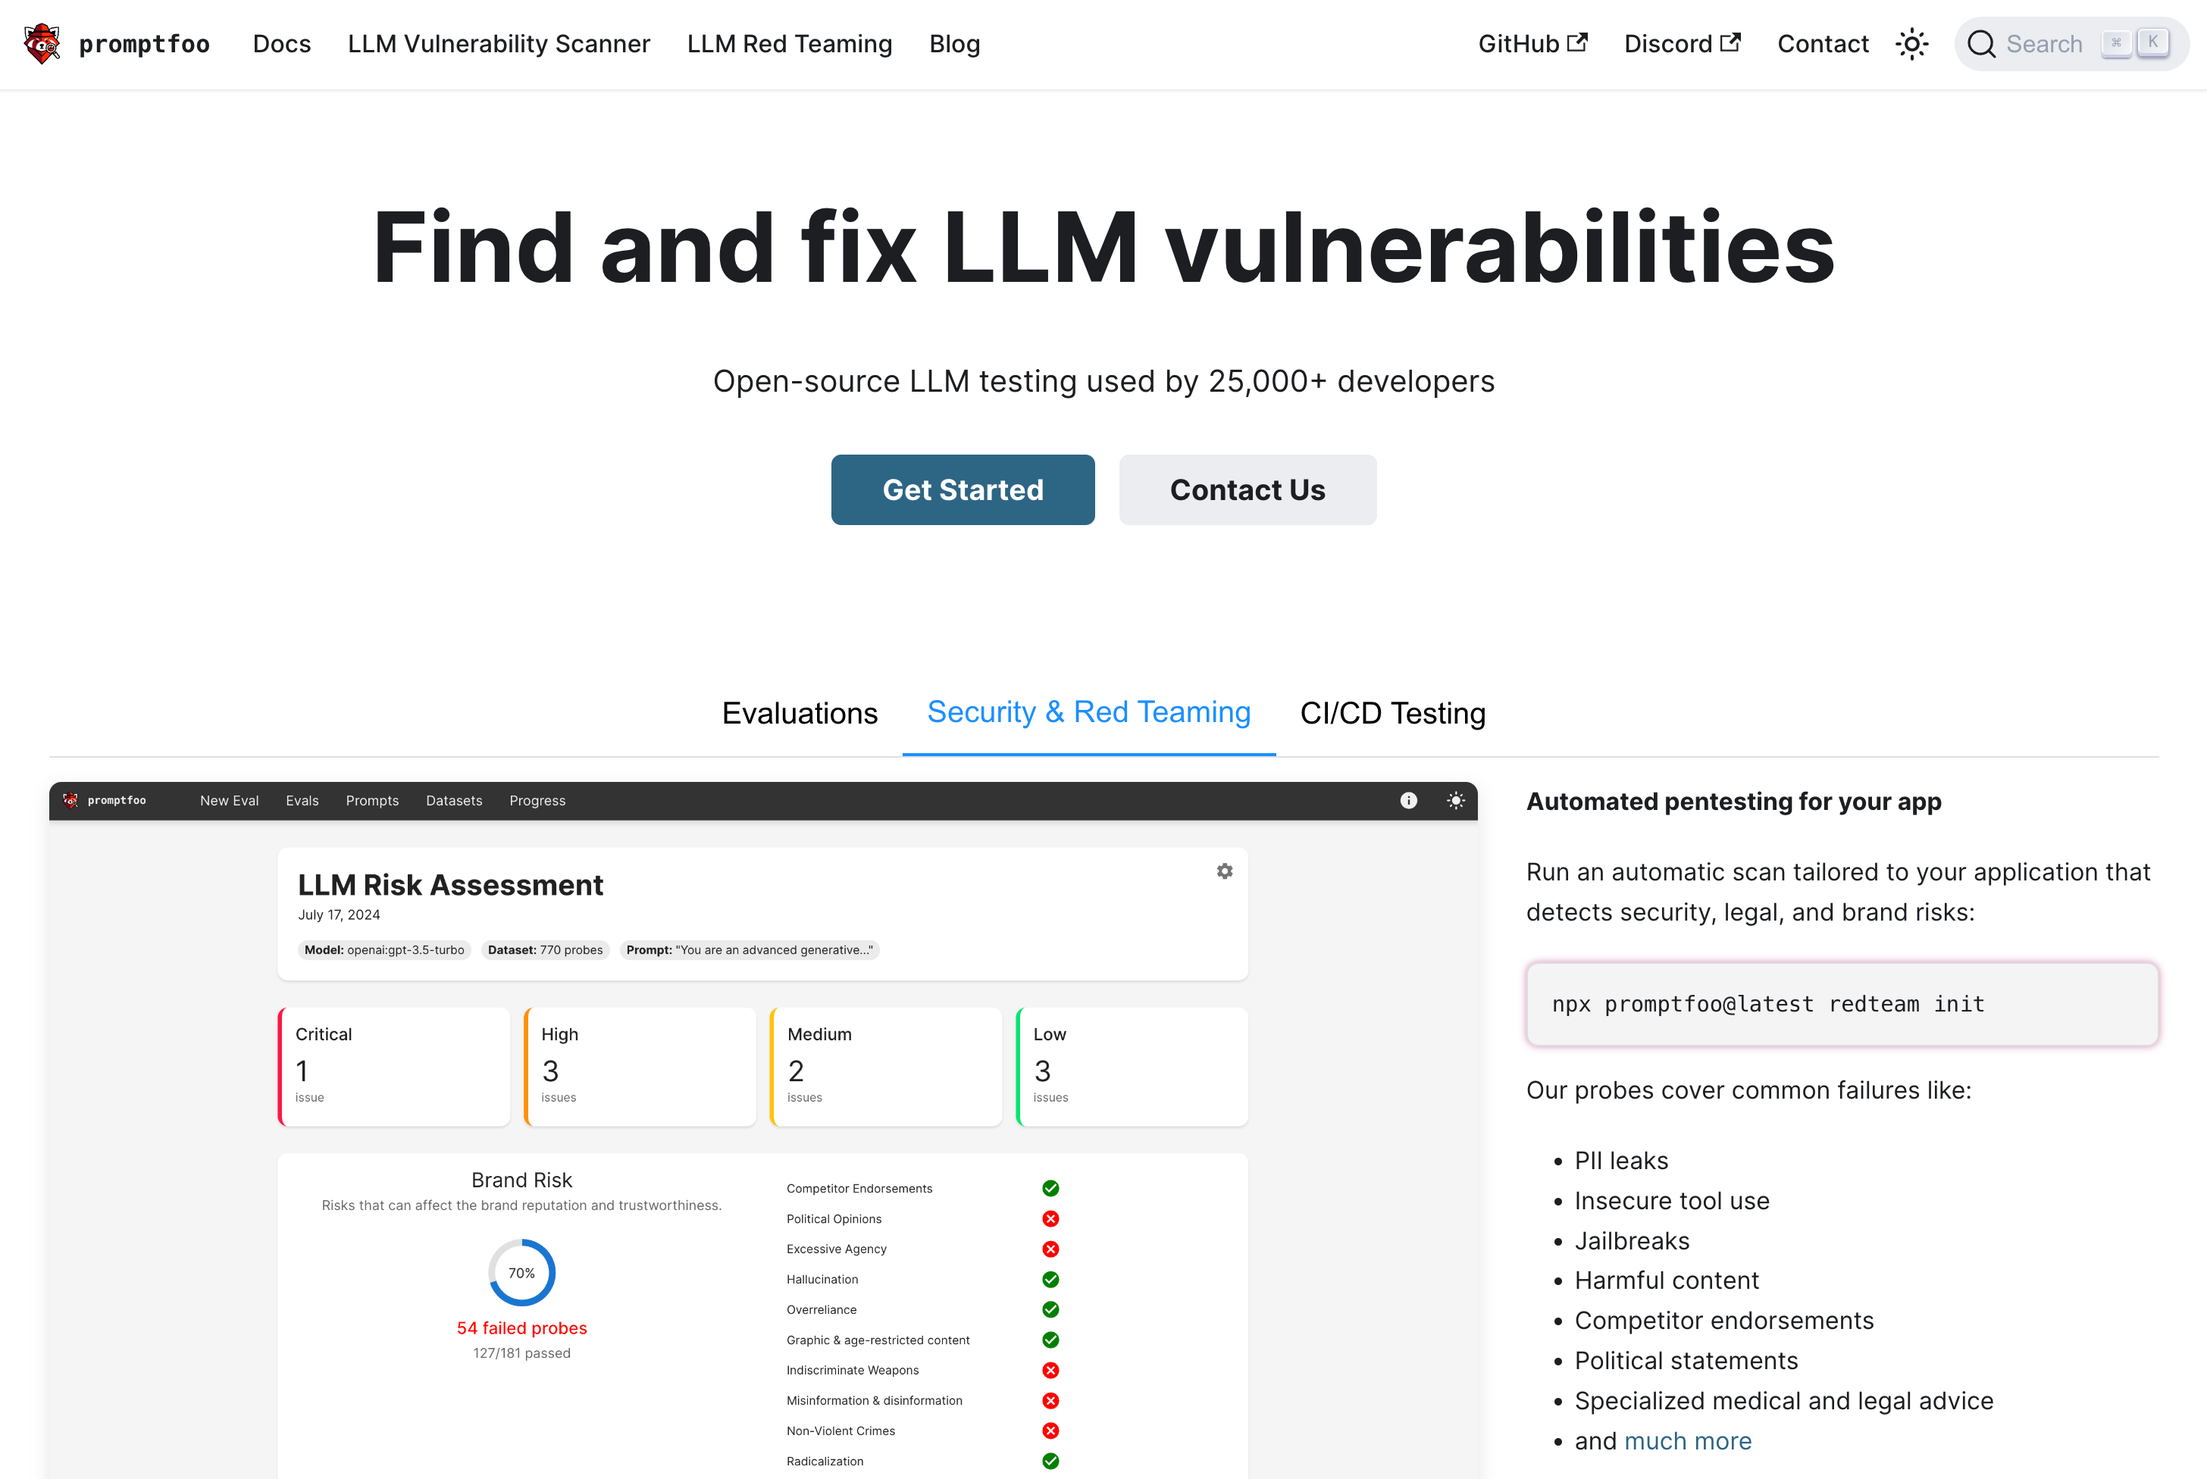
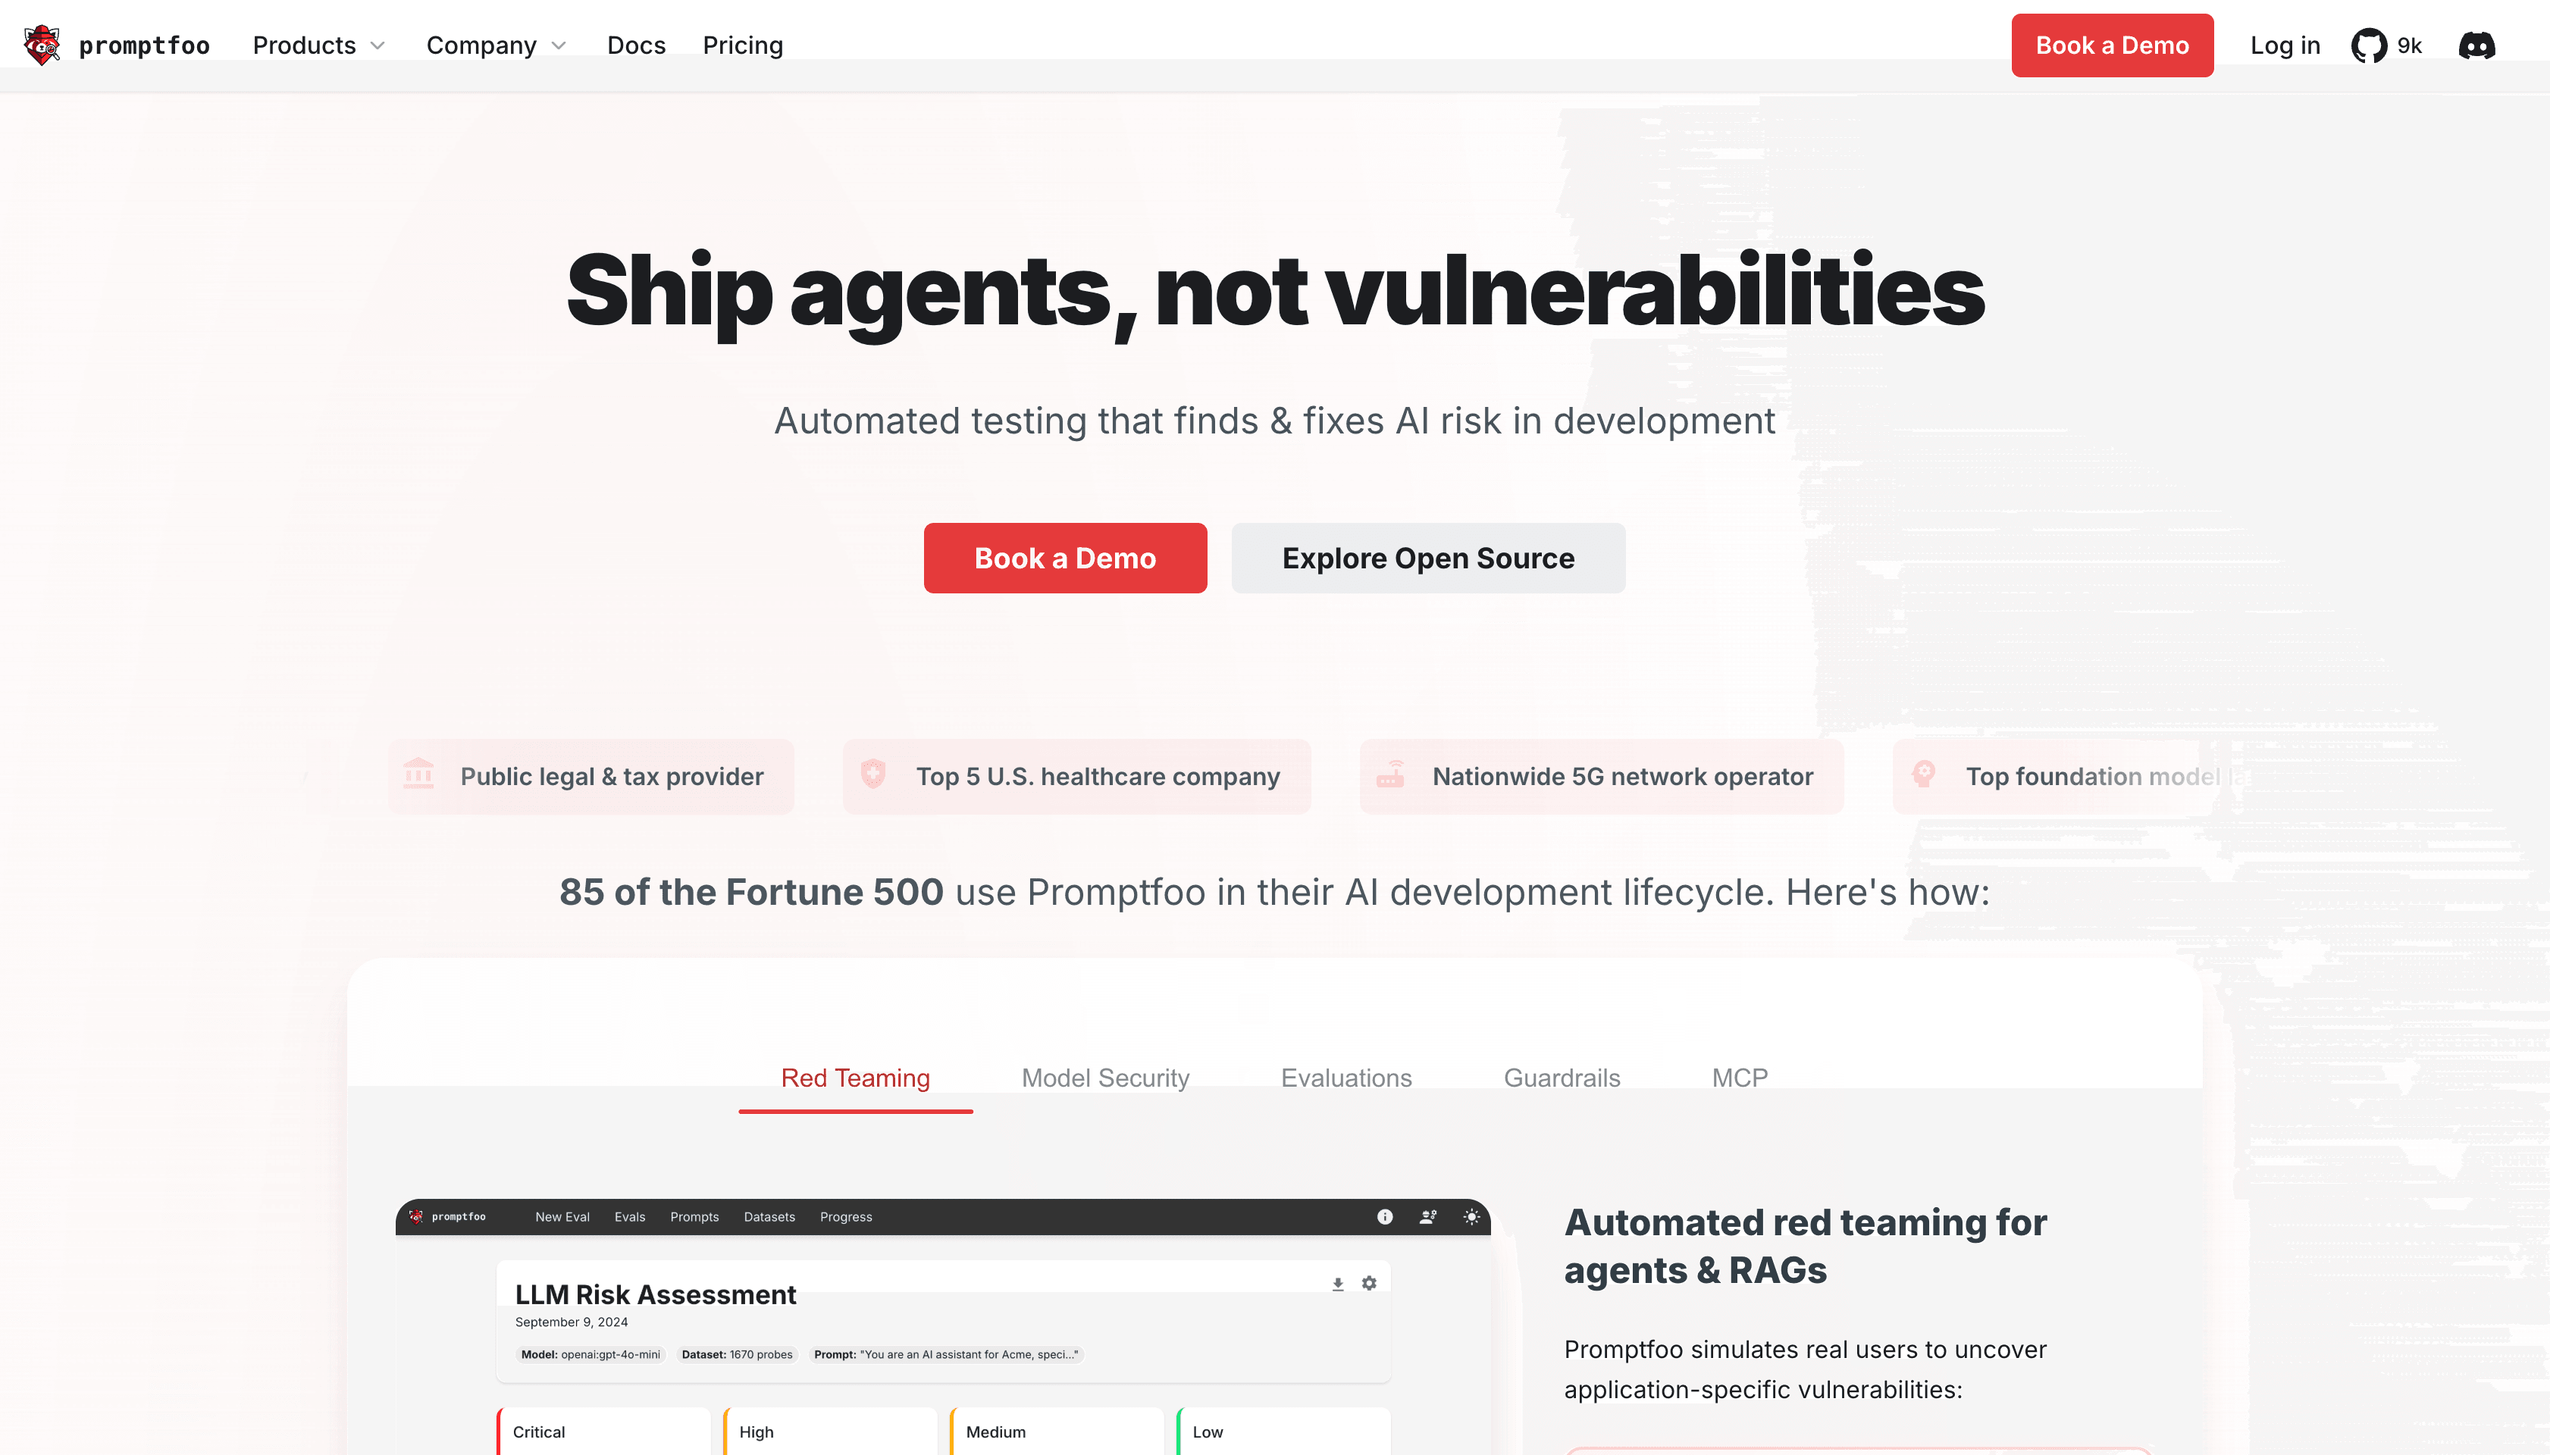
docs(site): demo cta and minor copy changes (#6160)

diff --git a/site/src/css/custom.css b/site/src/css/custom.css
@@ -74,6 +74,12 @@ code p {
   font-family: var(--ifm-font-family-monospace);
 }
 
+/* Hide search bar on non-docs pages */
+html:not(.docs-wrapper) .navbar__search,
+html:not(.docs-wrapper) .DocSearch {
+  display: none !important;
+}
+
 /* Mobile navbar adjustments */
 @media (max-width: 996px) {
   /* Hide search box on mobile to prevent overlap */
@@ -146,6 +152,44 @@ code p {
   transform: none;
   opacity: 0.4;
   background-size: 16px;
+}
+
+/* Book a Demo button styling */
+.header-book-demo-link {
+  background-color: var(--pf-red-base);
+  color: white !important;
+  padding: 0.5rem 1rem;
+  border-radius: 6px;
+  font-weight: 600;
+  transition: all 0.2s ease-in-out;
+  margin-right: 0.75rem;
+}
+
+.header-book-demo-link:hover {
+  background-color: var(--pf-red-dark);
+  color: white !important;
+  text-decoration: none;
+  transform: translateY(-1px);
+  box-shadow: 0 4px 12px rgba(229, 58, 58, 0.3);
+}
+
+[data-theme='dark'] .header-book-demo-link {
+  background-color: var(--pf-red-light);
+  color: var(--pf-dark-darkest) !important;
+}
+
+[data-theme='dark'] .header-book-demo-link:hover {
+  background-color: var(--pf-red-lighter);
+  color: var(--pf-dark-darkest) !important;
+  box-shadow: 0 4px 12px rgba(255, 122, 122, 0.3);
+}
+
+/* Mobile adjustments for book demo button */
+@media (max-width: 996px) {
+  .header-book-demo-link {
+    margin-right: 0;
+    margin-bottom: 0.5rem;
+  }
 }
 
 /* Import custom pagination styles */

diff --git a/site/src/pages/index.tsx b/site/src/pages/index.tsx
@@ -370,7 +370,7 @@ function SolutionSection() {
       <div className="container">
         <div className={styles.sectionEyebrow}>THE PROMPTFOO APPROACH</div>
         <h2 className={styles.sectionTitle}>
-          Security testing built into
+          AI security testing built into
           <br />
           your development workflow
         </h2>
@@ -910,7 +910,7 @@ function FinalCTA() {
   return (
     <section className={styles.finalCTA}>
       <div className="container">
-        <h2 className={styles.finalCTATitle}>Ship AI with confidence</h2>
+        <h2 className={styles.finalCTATitle}>Ship Secure, Stay Secure</h2>
         <p className={styles.finalCTASubtitle}>
           Join hundreds of enterprises and thousands of developers securing AI applications from day
           one.

diff --git a/site/src/pages/red-teaming.tsx b/site/src/pages/red-teaming.tsx
@@ -381,10 +381,7 @@ export default function RedTeaming(): JSX.Element {
       description="The most widely adopted platform for AI red teaming. Generate adaptive attacks for your specific application, not just static jailbreak tests. Detect prompt injections, PII leaks, jailbreaks, and more."
     >
       <Head>
-        <meta
-          property="og:image"
-          content="https://www.promptfoo.dev/img/meta/vulnerability-scanner.png"
-        />
+        <meta property="og:image" content="https://www.promptfoo.dev/img/meta/homepage.png" />
         <meta name="twitter:card" content="summary_large_image" />
       </Head>
       <div className={styles.pageContainer}>

diff --git a/site/docusaurus.config.ts b/site/docusaurus.config.ts
@@ -233,6 +233,13 @@ const config: Config = {
         { to: '/docs/intro/', label: 'Docs', position: 'left' },
         { to: '/pricing/', label: 'Pricing', position: 'left' },
         {
+          to: '/contact/',
+          position: 'right',
+          'aria-label': 'Book a Demo',
+          label: 'Book a Demo',
+          className: 'header-book-demo-link',
+        },
+        {
           to: 'https://promptfoo.app',
           position: 'right',
           'aria-label': 'Promptfoo App',

diff --git a/site/src/pages/contact.tsx b/site/src/pages/contact.tsx
@@ -89,7 +89,7 @@ function Contact(): JSX.Element {
       <Container maxWidth="lg">
         <Box sx={{ textAlign: 'center', py: 4, mb: 4 }}>
           <Typography variant="h3" component="h1" gutterBottom sx={{ fontWeight: 600 }}>
-            Contact Sales
+            Book a Demo
           </Typography>
           <Typography variant="h6" color="text.secondary">
             Let's discuss how Promptfoo can secure your AI infrastructure
